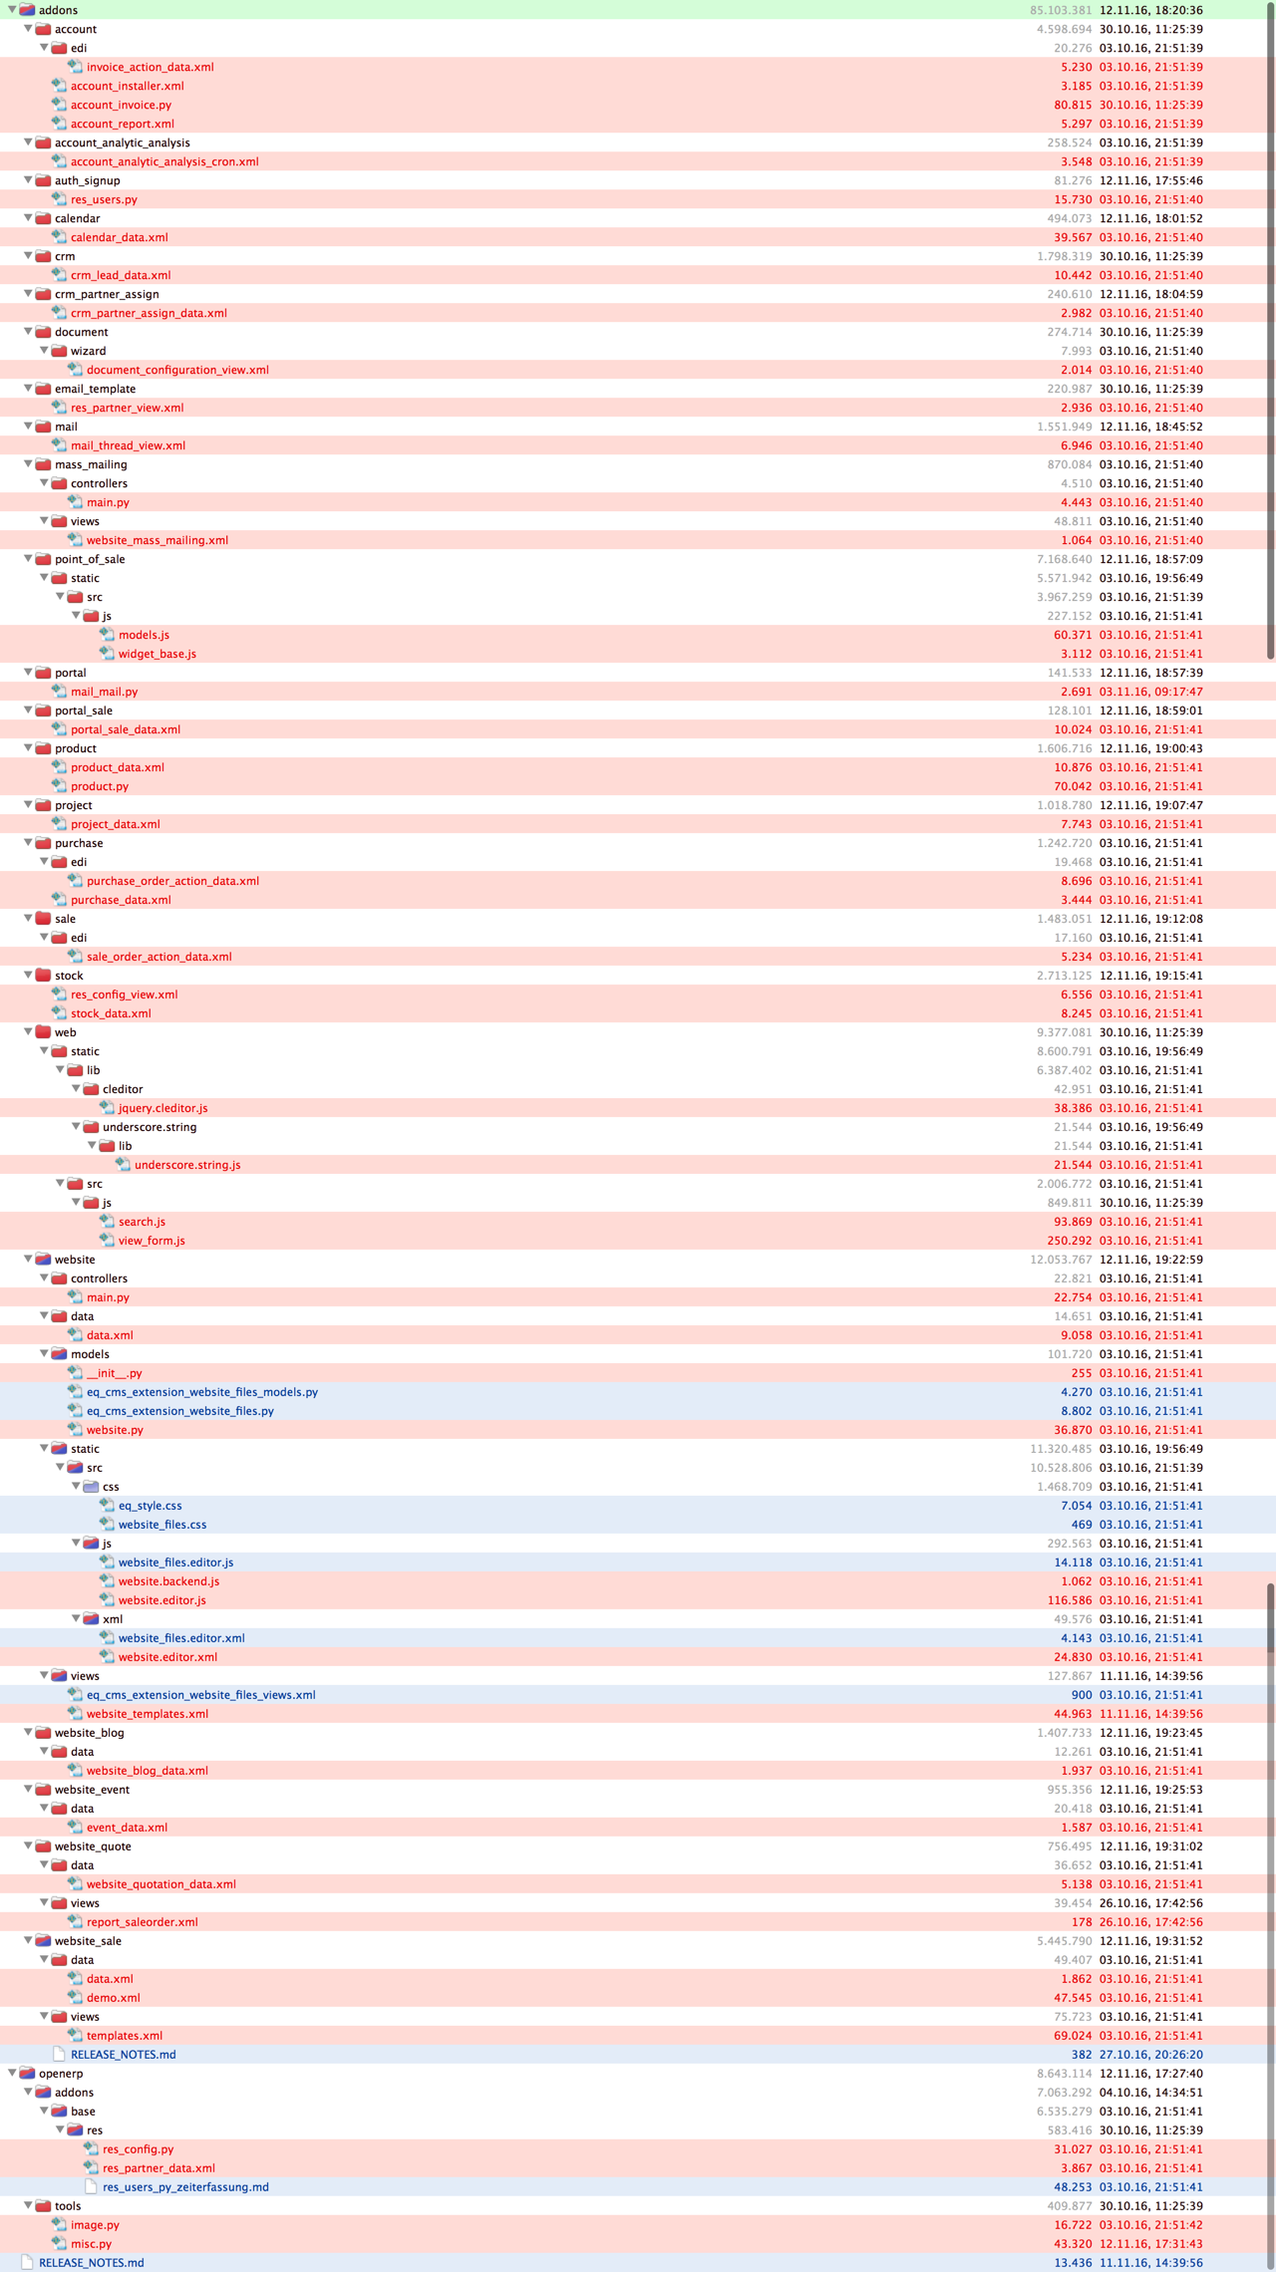
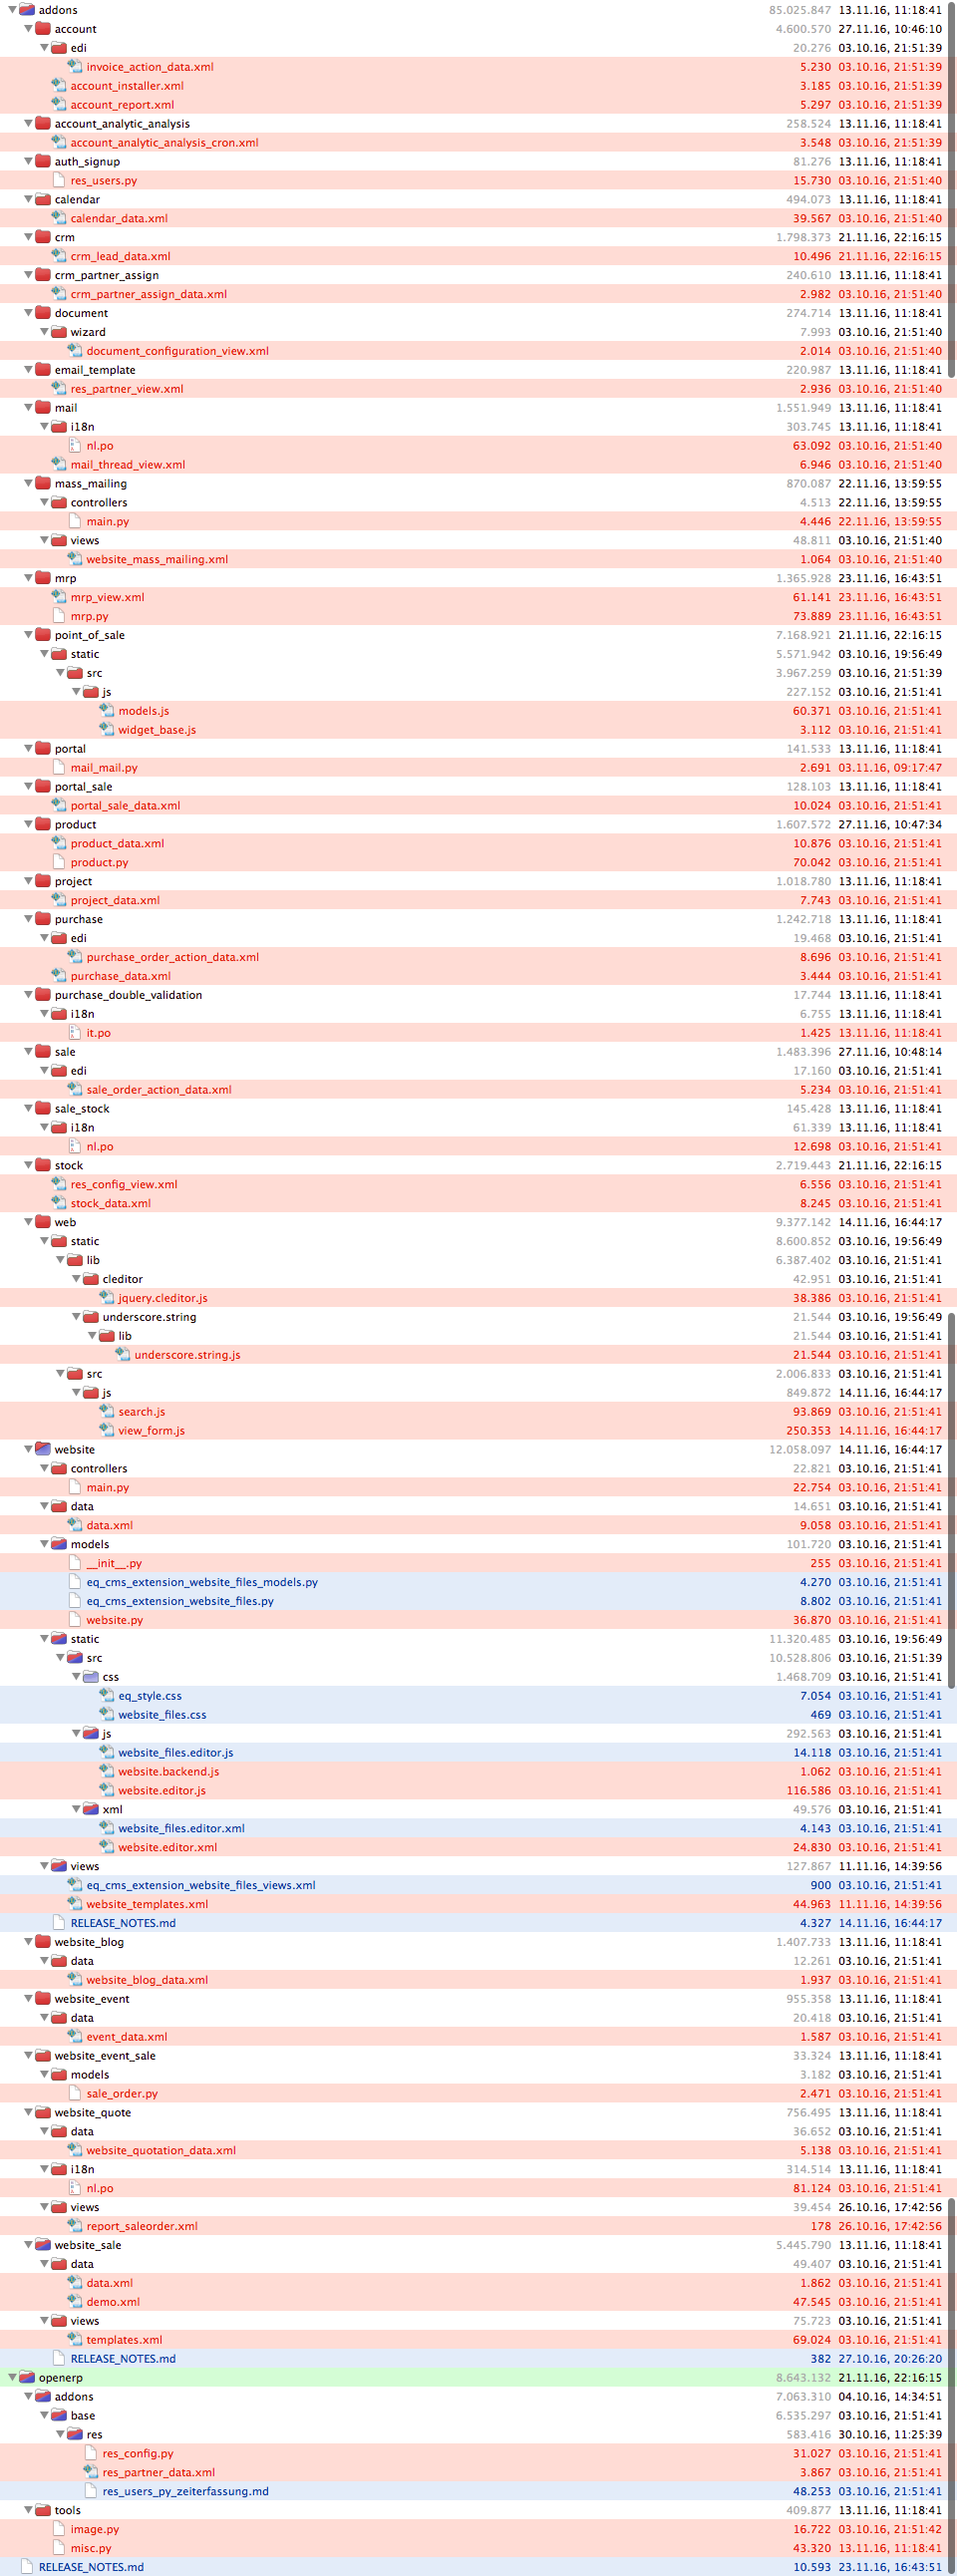
[CHG] Abgleich mit Odoo 8.0 - Stand 27.11.2016

diff --git a/addons/product/pricelist.py b/addons/product/pricelist.py
@@ -380,6 +380,14 @@ class product_pricelist(osv.osv):
 class product_pricelist_version(osv.osv):
     _name = "product.pricelist.version"
     _description = "Pricelist Version"
+
+    def _get_product_pricelist(self, cr, uid, ids, context=None):
+        result = set()
+        for pricelist in self.pool['product.pricelist'].browse(cr, uid, ids, context=context):
+            for version_id in pricelist.version_id:
+                result.add(version_id.id)
+        return list(result)
+
     _columns = {
         'pricelist_id': fields.many2one('product.pricelist', 'Price List',
             required=True, select=True, ondelete='cascade'),
@@ -393,7 +401,9 @@ class product_pricelist_version(osv.osv):
         'date_start': fields.date('Start Date', help="First valid date for the version."),
         'date_end': fields.date('End Date', help="Last valid date for the version."),
         'company_id': fields.related('pricelist_id','company_id',type='many2one',
-            readonly=True, relation='res.company', string='Company', store=True)
+            readonly=True, relation='res.company', string='Company', store={
+                'product.pricelist': (_get_product_pricelist, ['company_id'], 20),
+            })
     }
     _defaults = {
         'active': lambda *a: 1,
@@ -486,6 +496,14 @@ class product_pricelist_item(osv.osv):
                 return False
         return True
 
+    def _get_product_pricelist(self, cr, uid, ids, context=None):
+        result = set()
+        for pricelist in self.pool['product.pricelist'].browse(cr, uid, ids, context=context):
+            for version_id in pricelist.version_id:
+                for item_id in version_id.items_id:
+                    result.add(item_id.id)
+        return list(result)
+
     _columns = {
         'name': fields.char('Rule Name', help="Explicit rule name for this pricelist line."),
         'price_version_id': fields.many2one('product.pricelist.version', 'Price List Version', required=True, select=True, ondelete='cascade'),
@@ -515,7 +533,9 @@ class product_pricelist_item(osv.osv):
         'price_max_margin': fields.float('Max. Price Margin',
             digits_compute= dp.get_precision('Product Price'), help='Specify the maximum amount of margin over the base price.'),
         'company_id': fields.related('price_version_id','company_id',type='many2one',
-            readonly=True, relation='res.company', string='Company', store=True)
+            readonly=True, relation='res.company', string='Company', store={
+                'product.pricelist': (_get_product_pricelist, ['company_id'], 30),
+            })
     }
 
     _constraints = [

diff --git a/addons/account/account_move_line.py b/addons/account/account_move_line.py
@@ -1004,6 +1004,12 @@ class account_move_line(osv.osv):
 
         if (not currency_obj.is_zero(cr, uid, account.company_id.currency_id, writeoff)) or \
            (account.currency_id and (not currency_obj.is_zero(cr, uid, account.currency_id, currency))):
+            # DO NOT FORWARD PORT
+            if not writeoff_acc_id:
+                if writeoff > 0:
+                    writeoff_acc_id = account.company_id.expense_currency_exchange_account_id.id
+                else:
+                    writeoff_acc_id = account.company_id.income_currency_exchange_account_id.id
             if not writeoff_acc_id:
                 raise osv.except_osv(_('Warning!'), _('You have to provide an account for the write off/exchange difference entry.'))
             if writeoff > 0:
@@ -1057,14 +1063,24 @@ class account_move_line(osv.osv):
                     'amount_currency': amount_currency_writeoff and amount_currency_writeoff or (account.currency_id.id and currency or 0.0)
                 })
             ]
-
-            writeoff_move_id = move_obj.create(cr, uid, {
-                'period_id': writeoff_period_id,
-                'journal_id': writeoff_journal_id,
-                'date':date,
-                'state': 'draft',
-                'line_id': writeoff_lines
-            })
+            # DO NOT FORWARD PORT
+            # In some exceptional situations (partial payment from a bank statement in foreign
+            # currency), a write-off can be introduced at the very last moment due to currency
+            # conversion. We record it on the bank statement account move.
+            if context.get('bs_move_id'):
+                writeoff_move_id = context['bs_move_id']
+                for l in writeoff_lines:
+                    self.create(cr, uid, dict(l[2], move_id=writeoff_move_id), dict(context, novalidate=True))
+                if not move_obj.validate(cr, uid, writeoff_move_id, context=context):
+                    raise osv.except_osv(_('Error!'), _('You cannot validate a non-balanced entry.'))
+            else:
+                writeoff_move_id = move_obj.create(cr, uid, {
+                    'period_id': writeoff_period_id,
+                    'journal_id': writeoff_journal_id,
+                    'date':date,
+                    'state': 'draft',
+                    'line_id': writeoff_lines
+                })
 
             writeoff_line_ids = self.search(cr, uid, [('move_id', '=', writeoff_move_id), ('account_id', '=', account_id)])
             if account_id == writeoff_acc_id:

diff --git a/addons/sale/sale.py b/addons/sale/sale.py
@@ -910,6 +910,13 @@ class sale_order_line(osv.osv):
             res[line.id] = line.price_subtotal / line.product_uom_qty if line.product_uom_qty else 0.0
         return res
 
+    def _get_sale_order(self, cr, uid, ids, context=None):
+        result = set()
+        for order in self.pool['sale.order'].browse(cr, uid, ids, context=context):
+            for line in order.order_line:
+                result.add(line.id)
+        return list(result)
+
     _name = 'sale.order.line'
     _description = 'Sales Order Line'
     _columns = {
@@ -944,7 +951,9 @@ class sale_order_line(osv.osv):
                     \n* The \'Cancelled\' status is set when a user cancel the sales order related.'),
         'order_partner_id': fields.related('order_id', 'partner_id', type='many2one', relation='res.partner', store=True, string='Customer'),
         'salesman_id':fields.related('order_id', 'user_id', type='many2one', relation='res.users', store=True, string='Salesperson'),
-        'company_id': fields.related('order_id', 'company_id', type='many2one', relation='res.company', string='Company', store=True, readonly=True),
+        'company_id': fields.related('order_id', 'company_id', type='many2one', relation='res.company', string='Company', store={
+            'sale.order': (_get_sale_order, ['company_id'], 20),
+        }, readonly=True),
         'delay': fields.float('Delivery Lead Time', required=True, help="Number of days between the order confirmation and the shipping of the products to the customer", readonly=True, states={'draft': [('readonly', False)]}),
         'procurement_ids': fields.one2many('procurement.order', 'sale_line_id', 'Procurements'),
     }

diff --git a/addons/account/account_bank_statement.py b/addons/account/account_bank_statement.py
@@ -920,7 +920,8 @@ class account_bank_statement_line(osv.osv):
                 move_line_pairs_to_reconcile.append([new_aml_id, counterpart_move_line_id])
         # Reconcile
         for pair in move_line_pairs_to_reconcile:
-            aml_obj.reconcile_partial(cr, uid, pair, context=context)
+            # DO NOT FORWARD PORT
+            aml_obj.reconcile_partial(cr, uid, pair, context=dict(context, bs_move_id=move_id))
         # Mark the statement line as reconciled
         self.write(cr, uid, id, {'journal_entry_id': move_id}, context=context)
 

diff --git a/addons/account/__openerp__.py b/addons/account/__openerp__.py
@@ -20,7 +20,7 @@
 ##############################################################################
 {
     'name' : 'eInvoicing',
-    'version' : '1.1.10',
+    'version' : '1.1.11',
     'author' : 'OpenERP SA',
     'category' : 'Accounting & Finance',
     'description' : """

diff --git a/addons/product/__openerp__.py b/addons/product/__openerp__.py
@@ -22,7 +22,7 @@
 
 {
     'name': 'Products & Pricelists',
-    'version': '1.1.5',
+    'version': '1.1.6',
     'author': 'OpenERP SA',
     'category': 'Sales Management',
     'depends': ['base', 'decimal_precision', 'mail', 'report'],

diff --git a/addons/sale/__openerp__.py b/addons/sale/__openerp__.py
@@ -21,7 +21,7 @@
 
 {
     'name': 'Sales Management',
-    'version': '1.3.2',
+    'version': '1.3.3',
     'category': 'Sales Management',
     'sequence': 14,
     'summary': 'Quotations, Sales Orders, Invoicing',

diff --git a/README.md b/README.md
@@ -19,7 +19,7 @@ Unser Fork wird regelmäßig mit dem Hauptodoo Fork abgeglichen.
 
 `Aktuelle Buildversion: 161103`
 
-`Letzer Abgleich: 22.11.2016`
+`Letzer Abgleich: 27.11.2016`
 
 Dieser Fork obliegt der <a href="http://www.gnu.org/licenses/licenses.html">GNU Affero General Public License</a> wie das Ursprungssystem <a href="https://www.odoo.com">Odoo</a> selbst.
 
@@ -30,7 +30,7 @@ Dieser Fork obliegt der <a href="http://www.gnu.org/licenses/licenses.html">GNU 
 - Der MyOdoo Fork beinhaltet einige Verbesserungen und Bugfixes, die im Odoo Haupt Branch fehlen. Dennoch wird der Fork wöchentlich abgeglichen. 
 - Der MyOdoo Fork wird über einen Release Manager verwaltet und ist bei vielen deutschen Unternehmen im Einsatz.
 
-**Bugfixes & Änderungen abweichend vom Hauptfork Stand Mai 2016**
+**Bugfixes & Änderungen abweichend vom Hauptfork Stand November 2016**
 
 Siehe myodoo-server-fork-differences.png
 

diff --git a/doc/cla/corporate/diagram-software.md b/doc/cla/corporate/diagram-software.md
@@ -1,0 +1,20 @@
+Spain, 2016-11-21
+
+Diagram Software, S.L. agrees to the terms of the Odoo Corporate Contributor License
+Agreement v1.0.
+
+I declare that I am authorized and able to make this agreement and sign this
+declaration.
+
+Signed,
+
+Jose Zambudio jose.zambudio@diagram.es https://github.com/zamberjo
+
+List of contributors:
+
+Cristian Moncho cristian.moncho@diagram.es https://github.com/crimoniv
+Jose Zambudio jose.zambudio@diagram.es https://github.com/zamberjo
+Almudena de la Puente almudena.delapuente@diagram.es https://github.com/almumu
+Mauro Cebriá mauro.cebria@diagram.es https://github.com/maurochip
+Pedro Albujer pedro.albujer.rico@diagram.es https://github.com/P4R
+Rubén Cerdà ruben.cerda.roig@diagram.es https://github.com/rubencr7
